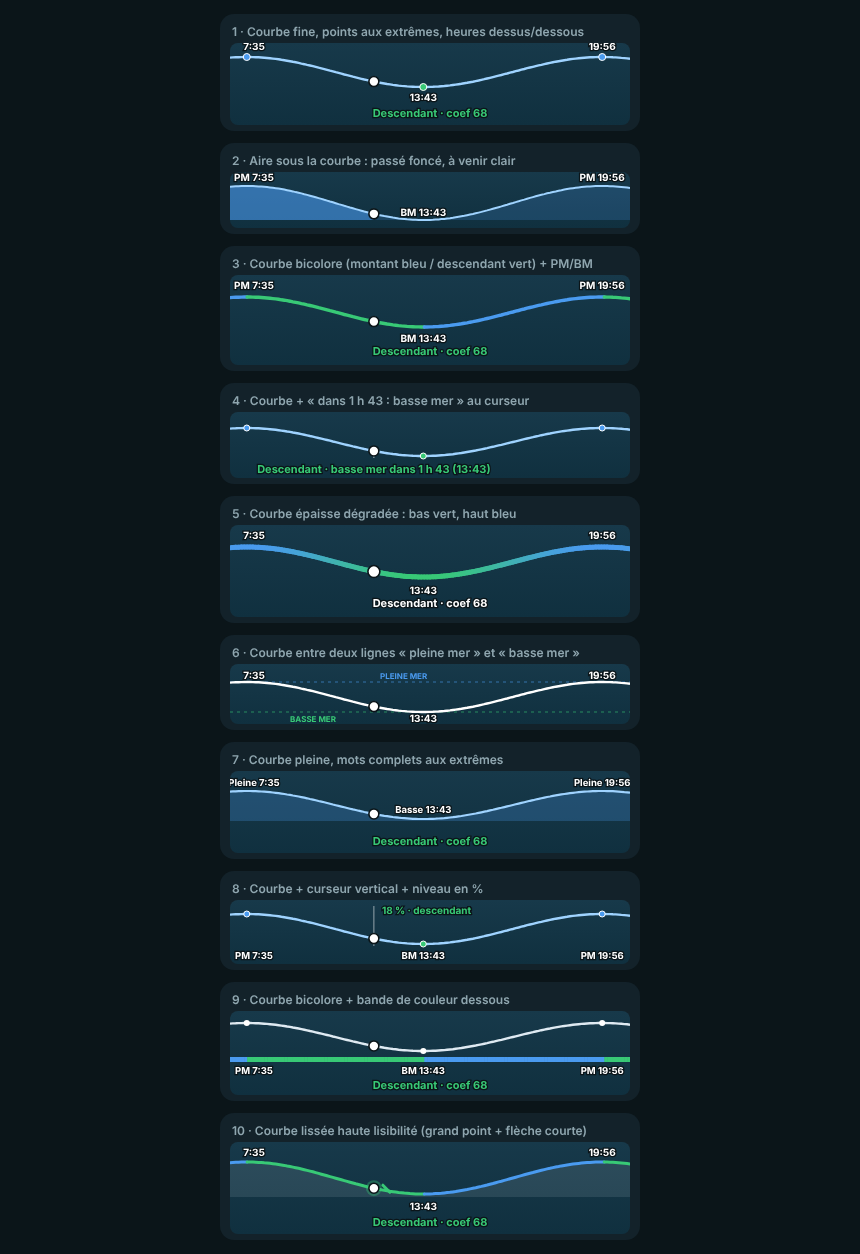
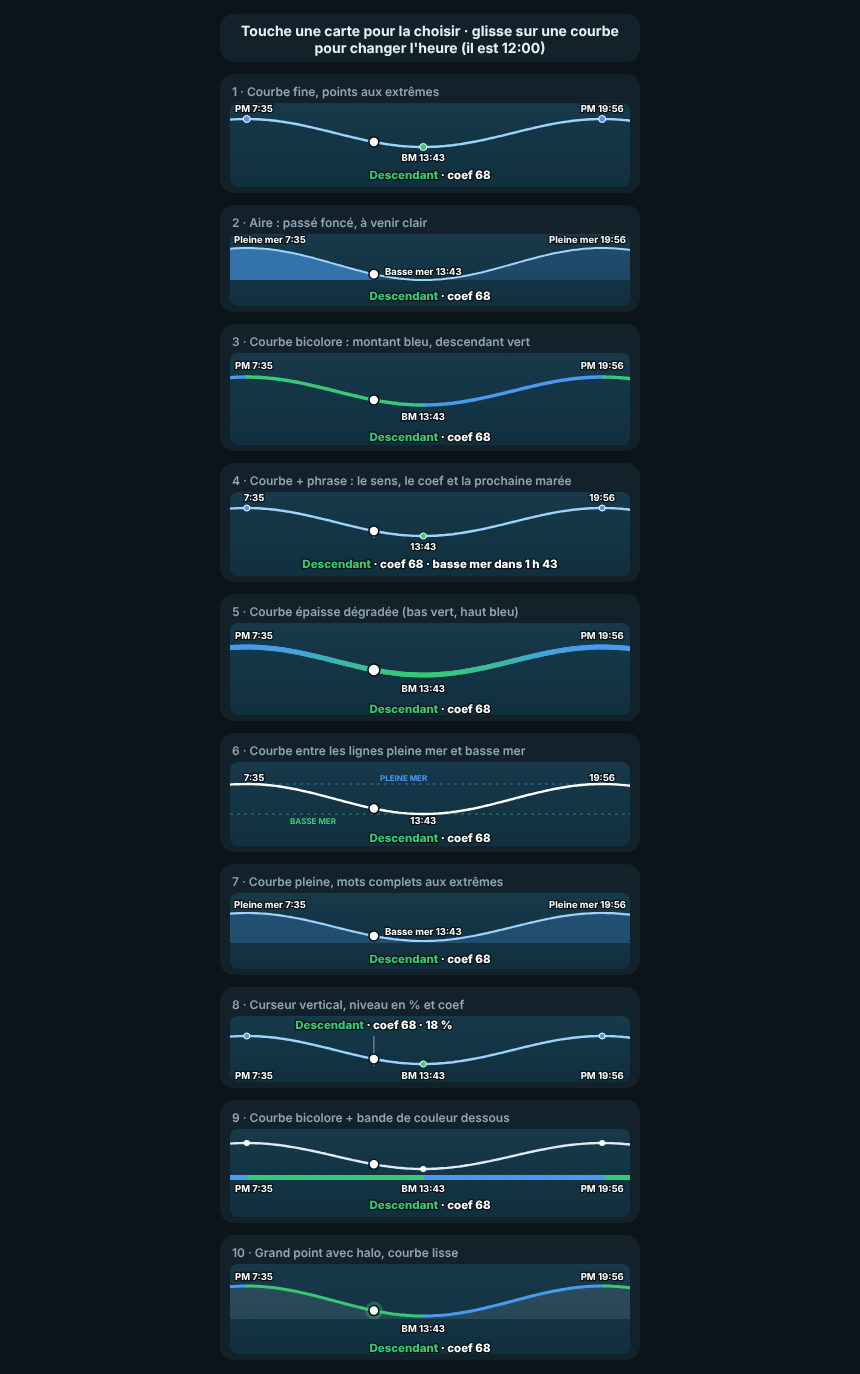
Maquette courbes de marée : coef et sens toujours affichés sur les dix
Claude-Session: https://claude.ai/code/session_01SmdS3QR8SGgih4tjLPucxr

Changed region(s): [[0.2419, 0.0, 0.7558, 0.9952]]

diff --git a/docs/maquettes/propositions-v3/maree-courbes.html b/docs/maquettes/propositions-v3/maree-courbes.html
@@ -26,44 +26,47 @@ const dot=(x,y,r=5)=>`<circle cx="${x}" cy="${y}" r="${r}" fill="#fff" stroke="#
 const segs=(p,w)=>{let s='',i=0;while(i<p.length-1){const up=rising(p[i][2]+.001);let j=i;while(j<p.length-1&&rising(p[j][2]+.001)===up)j++;s+=`<path d="${path(p.slice(i,j+1))}" fill="none" stroke="${up?UP:DN}" stroke-width="${w}" stroke-linecap="round"/>`;i=j}return s};
 const col=up=>up?UP:DN;
 const dir=()=>rising(NOW)?'Montant':'Descendant';
+const ST=(x,y,anchor='middle',extra='')=>{const up=rising(NOW);return `<text x="${x}" y="${y}" font-size="11.5" font-weight="800" text-anchor="${anchor}" stroke="#0b1519" stroke-width="2.5" paint-order="stroke"><tspan fill="${col(up)}">${dir()}</tspan><tspan fill="#fff"> · coef ${COEF}${extra}</tspan></text>`};
+const nextTxt=()=>{const nx=EXT.find(e=>e[0]>NOW),d=nx[0]-NOW,hh=Math.floor(d),mm=Math.round((d-hh)*60);return ` · ${nx[1]==='BM'?'basse':'pleine'} mer dans ${hh} h ${String(mm).padStart(2,'0')}`};
+const TE=(t,k,y)=>{const x=X(t);return x<70?T(4,y,EXL(t,k,1),{a:'start',st:1,s:9.5}):x>W-70?T(W-4,y,EXL(t,k,1),{a:'end',st:1,s:9.5}):T(x,y,EXL(t,k,1),{st:1,s:9.5})};
+const EXL=(t,k,full)=>(full?(k==='PM'?'Pleine mer ':'Basse mer '):(k==='PM'?'PM ':'BM '))+fmt(t);
 const V=[
-['1 · Courbe fine, points aux extrêmes, heures dessus/dessous',()=>{const y0=44,h=30,p=pts(y0,h);let s=`<path d="${path(p)}" fill="none" stroke="#9fd3ff" stroke-width="2.4"/>`;
- for(const [t,k] of visibleExt){const y=y0-h*lv(t);s+=`<circle cx="${X(t)}" cy="${y}" r="3.5" fill="${k==='PM'?UP:DN}" stroke="#fff"/>`+T(X(t),k==='PM'?y-7:y+14,fmt(t),{st:1})}
- return [s+dot(X(NOW),y0-h*lv(NOW),5)+T(200,74,dir()+' · coef '+COEF,{c:col(rising(NOW)),s:11,st:1}),82]}],
-['2 · Aire sous la courbe : passé foncé, à venir clair',()=>{const y0=48,h=34,p=pts(y0,h);const past=p.filter(q=>q[2]<=NOW),fut=p.filter(q=>q[2]>=NOW);
+['1 · Courbe fine, points aux extrêmes',()=>{const y0=44,h=28,p=pts(y0,h);let s=`<path d="${path(p)}" fill="none" stroke="#9fd3ff" stroke-width="2.4"/>`;
+ for(const [t,k] of visibleExt){const y=y0-h*lv(t);s+=`<circle cx="${X(t)}" cy="${y}" r="3.5" fill="${k==='PM'?UP:DN}" stroke="#fff"/>`+T(X(t),k==='PM'?y-7:y+14,EXL(t,k),{st:1,s:9.5})}
+ return [s+dot(X(NOW),y0-h*lv(NOW),5)+ST(200,y0+32),84]}],
+['2 · Aire : passé foncé, à venir clair',()=>{const y0=46,h=32,p=pts(y0,h);const past=p.filter(q=>q[2]<=NOW),fut=p.filter(q=>q[2]>=NOW);
  let s=`<path d="${path(fut)} L${X(A1)} ${y0} L${X(NOW)} ${y0}Z" fill="rgba(74,155,240,.2)"/><path d="${path(past)} L${X(NOW)} ${y0} L${X(A0)} ${y0}Z" fill="rgba(74,155,240,.6)"/><path d="${path(p)}" fill="none" stroke="#9fd3ff" stroke-width="2"/>`;
- for(const [t,k] of visibleExt){s+=T(X(t),k==='PM'?y0-h*lv(t)-5:y0-4,(k==='PM'?'PM ':'BM ')+fmt(t),{st:1})}
- return [s+dot(X(NOW),y0-h*lv(NOW)),56]}],
-['3 · Courbe bicolore (montant bleu / descendant vert) + PM/BM',()=>{const y0=52,h=30,p=pts(y0,h);let s=segs(p,3.4);
- for(const [t,k] of visibleExt){const y=y0-h*lv(t);s+=T(X(t),k==='PM'?y-8:y+15,(k==='PM'?'PM ':'BM ')+fmt(t),{st:1})}
- return [s+dot(X(NOW),y0-h*lv(NOW))+T(200,80,dir()+' · coef '+COEF,{c:col(rising(NOW)),s:11,st:1}),90]}],
-['4 · Courbe + « dans 1 h 43 : basse mer » au curseur',()=>{const y0=44,h=28,p=pts(y0,h);let s=`<path d="${path(p)}" fill="none" stroke="#9fd3ff" stroke-width="2.4"/>`;
- const nx=EXT.find(e=>e[0]>NOW),d=nx[0]-NOW,hh=Math.floor(d),mm=Math.round((d-hh)*60);
+ for(const [t,k] of visibleExt)s+=TE(t,k,k==='PM'?y0-h*lv(t)-5:y0-5);
+ return [s+dot(X(NOW),y0-h*lv(NOW))+ST(200,y0+20),72]}],
+['3 · Courbe bicolore : montant bleu, descendant vert',()=>{const y0=52,h=28,p=pts(y0,h);let s=segs(p,3.4);
+ for(const [t,k] of visibleExt){const y=y0-h*lv(t);s+=T(X(t),k==='PM'?y-8:y+15,EXL(t,k),{st:1,s:9.5})}
+ return [s+dot(X(NOW),y0-h*lv(NOW))+ST(200,y0+36),92]}],
+['4 · Courbe + phrase : le sens, le coef et la prochaine marée',()=>{const y0=44,h=28,p=pts(y0,h);let s=`<path d="${path(p)}" fill="none" stroke="#9fd3ff" stroke-width="2.4"/>`;
  const cx=X(NOW),cy=y0-h*lv(NOW);s+=`<line x1="${cx}" x2="${cx}" y1="${cy}" y2="${y0+4}" stroke="#fff" stroke-dasharray="2 3" opacity=".7"/>`+dot(cx,cy);
- for(const [t,k] of visibleExt)s+=`<circle cx="${X(t)}" cy="${y0-h*lv(t)}" r="3" fill="${k==='PM'?UP:DN}" stroke="#fff"/>`;
- return [s+T(cx,y0+17,`${dir()} · ${nx[1]==='BM'?'basse':'pleine'} mer dans ${hh} h ${String(mm).padStart(2,'0')} (${fmt(nx[0])})`,{c:col(rising(NOW)),s:11,st:1}),66]}],
-['5 · Courbe épaisse dégradée : bas vert, haut bleu',()=>{const y0=52,h=30,p=pts(y0,h);let s='';for(let i=0;i<p.length-1;i++){const m=lv((p[i][2]+p[i+1][2])/2);s+=`<path d="M${p[i][0]} ${p[i][1]} L${p[i+1][0]} ${p[i+1][1]}" stroke="rgb(${56+(74-56)*m|0},${201+(155-201)*m|0},${118+(240-118)*m|0})" stroke-width="5" stroke-linecap="round" fill="none"/>`}
- for(const [t,k] of visibleExt)s+=T(X(t),k==='PM'?y0-h*lv(t)-8:y0-h*lv(t)+17,fmt(t),{st:1});
- return [s+dot(X(NOW),y0-h*lv(NOW),6)+T(200,82,dir()+' · coef '+COEF,{c:'#fff',s:11,st:1}),92]}],
-['6 · Courbe entre deux lignes « pleine mer » et « basse mer »',()=>{const y0=48,h=30,p=pts(y0,h);let s=`<line x1="0" x2="${W}" y1="${y0-h}" y2="${y0-h}" stroke="${UP}" stroke-dasharray="3 4" opacity=".6"/><line x1="0" x2="${W}" y1="${y0}" y2="${y0}" stroke="${DN}" stroke-dasharray="3 4" opacity=".6"/>`+
+ for(const [t,k] of visibleExt)s+=`<circle cx="${X(t)}" cy="${y0-h*lv(t)}" r="3" fill="${k==='PM'?UP:DN}" stroke="#fff"/>`+T(X(t),k==='PM'?y0-h*lv(t)-7:y0-h*lv(t)+14,fmt(t),{st:1,s:9.5});
+ return [s+ST(200,y0+32,'middle',nextTxt()),84]}],
+['5 · Courbe épaisse dégradée (bas vert, haut bleu)',()=>{const y0=52,h=28,p=pts(y0,h);let s='';for(let i=0;i<p.length-1;i++){const m=lv((p[i][2]+p[i+1][2])/2);s+=`<path d="M${p[i][0]} ${p[i][1]} L${p[i+1][0]} ${p[i+1][1]}" stroke="rgb(${56+(74-56)*m|0},${201+(155-201)*m|0},${118+(240-118)*m|0})" stroke-width="5" stroke-linecap="round" fill="none"/>`}
+ for(const [t,k] of visibleExt)s+=T(X(t),k==='PM'?y0-h*lv(t)-8:y0-h*lv(t)+17,EXL(t,k),{st:1,s:9.5});
+ return [s+dot(X(NOW),y0-h*lv(NOW),6)+ST(200,y0+38),92]}],
+['6 · Courbe entre les lignes pleine mer et basse mer',()=>{const y0=52,h=30,p=pts(y0,h);let s=`<line x1="0" x2="${W}" y1="${y0-h}" y2="${y0-h}" stroke="${UP}" stroke-dasharray="3 4" opacity=".6"/><line x1="0" x2="${W}" y1="${y0}" y2="${y0}" stroke="${DN}" stroke-dasharray="3 4" opacity=".6"/>`+
  T(150,y0-h-3,'PLEINE MER',{a:'start',s:8,c:UP})+T(60,y0+10,'BASSE MER',{a:'start',s:8,c:DN})+`<path d="${path(p)}" fill="none" stroke="#fff" stroke-width="2.4"/>`;
- for(const [t,k] of visibleExt)s+=T(X(t),k==='PM'?y0-h-3:y0+10,fmt(t),{st:1,s:10});
- return [s+dot(X(NOW),y0-h*lv(NOW)),60]}],
+ for(const [t,k] of visibleExt)s+=T(X(t),k==='PM'?y0-h-3:y0+10,fmt(t),{st:1,s:9.5});
+ return [s+dot(X(NOW),y0-h*lv(NOW))+ST(200,y0+28),84]}],
 ['7 · Courbe pleine, mots complets aux extrêmes',()=>{const y0=48,h=28,p=pts(y0,h);let s=`<path d="${path(p)} L${W} ${y0+2} L0 ${y0+2}Z" fill="rgba(74,155,240,.25)"/><path d="${path(p)}" fill="none" stroke="#9fd3ff" stroke-width="2.2"/>`;
- for(const [t,k] of visibleExt)s+=T(X(t),k==='PM'?y0-h*lv(t)-5:y0-6,(k==='PM'?'Pleine ':'Basse ')+fmt(t),{st:1,s:9.5});
- return [s+dot(X(NOW),y0-h*lv(NOW))+T(200,74,dir()+' · coef '+COEF,{c:col(rising(NOW)),s:11,st:1}),82]}],
-['8 · Courbe + curseur vertical + niveau en %',()=>{const y0=44,h=30,p=pts(y0,h);const lvl=Math.round(lv(NOW)*100);let s=`<path d="${path(p)}" fill="none" stroke="#9fd3ff" stroke-width="2.4"/>`;
- const cx=X(NOW),cy=y0-h*lv(NOW);s+=`<line x1="${cx}" x2="${cx}" y1="6" y2="${y0+2}" stroke="#fff" opacity=".55"/>`+dot(cx,cy)+T(cx+(cx>300?-8:8),14,`${lvl} % · ${dir().toLowerCase()}`.replace(/^./,c=>c.toUpperCase()),{a:cx>300?'end':'start',s:10,st:1,c:col(rising(NOW))});
- for(const [t,k] of visibleExt)s+=`<circle cx="${X(t)}" cy="${y0-h*lv(t)}" r="3" fill="${k==='PM'?UP:DN}" stroke="#fff"/>`+T(X(t),y0+15,(k==='PM'?'PM ':'BM ')+fmt(t),{st:1,s:9.5});
- return [s,64]}],
-['9 · Courbe bicolore + bande de couleur dessous',()=>{const y0=40,h=28,p=pts(y0,h);let s=`<path d="${path(p)}" fill="none" stroke="#dfeaf2" stroke-width="2.4"/>`;
+ for(const [t,k] of visibleExt)s+=TE(t,k,k==='PM'?y0-h*lv(t)-5:y0-6);
+ return [s+dot(X(NOW),y0-h*lv(NOW))+ST(200,y0+22),76]}],
+['8 · Curseur vertical, niveau en % et coef',()=>{const y0=48,h=28,p=pts(y0,h);const lvl=Math.round(lv(NOW)*100);let s=`<path d="${path(p)}" fill="none" stroke="#9fd3ff" stroke-width="2.4"/>`;
+ const cx=X(NOW),cy=y0-h*lv(NOW);s+=`<line x1="${cx}" x2="${cx}" y1="20" y2="${y0+2}" stroke="#fff" opacity=".55"/>`+dot(cx,cy);
+ for(const [t,k] of visibleExt)s+=`<circle cx="${X(t)}" cy="${y0-h*lv(t)}" r="3" fill="${k==='PM'?UP:DN}" stroke="#fff"/>`+T(X(t),y0+15,EXL(t,k),{st:1,s:9.5});
+ return [s+ST(Math.min(Math.max(cx,110),W-110),13,'middle',` · ${lvl} %`),66]}],
+['9 · Courbe bicolore + bande de couleur dessous',()=>{const y0=40,h=26,p=pts(y0,h);let s=`<path d="${path(p)}" fill="none" stroke="#dfeaf2" stroke-width="2.4"/>`;
  for(let i=0;i<p.length-1;i++){const up=rising(p[i][2]+.001);s+=`<rect x="${p[i][0]}" y="${y0+6}" width="${p[i+1][0]-p[i][0]+.6}" height="5" fill="${col(up)}"/>`}
- for(const [t,k] of visibleExt)s+=`<circle cx="${X(t)}" cy="${y0-h*lv(t)}" r="3" fill="#fff"/>`+T(X(t),y0+23,(k==='PM'?'PM ':'BM ')+fmt(t),{st:1,s:9.5});
- return [s+dot(X(NOW),y0-h*lv(NOW))+T(200,y0+38,dir()+' · coef '+COEF,{c:col(rising(NOW)),s:11,st:1}),84]}],
-['10 · Courbe lissée haute lisibilité (grand point + flèche courte)',()=>{const y0=52,h=32,p=pts(y0,h);let s=`<path d="${path(p)} L${W} ${y0+3} L0 ${y0+3}Z" fill="rgba(143,166,175,.18)"/>`+segs(p,3);
- const cx=X(NOW),cy=y0-h*lv(NOW),up=rising(NOW);s+=`<circle cx="${cx}" cy="${cy}" r="8" fill="${col(up)}" opacity=".35"/>`+dot(cx,cy,5)+`<path d="M${cx+9} ${cy+(up?3:-3)} l7 ${up?-7:7}" stroke="${col(up)}" stroke-width="3" stroke-linecap="round" fill="none"/>`;
- for(const [t,k] of visibleExt)s+=T(X(t),k==='PM'?y0-h*lv(t)-6:y0-h*lv(t)+16,fmt(t)+(k==='PM'?'':''),{st:1,s:10});
- return [s+T(200,84,dir()+' · coef '+COEF,{c:col(up),s:11,st:1}),92]}]
+ for(const [t,k] of visibleExt)s+=`<circle cx="${X(t)}" cy="${y0-h*lv(t)}" r="3" fill="#fff"/>`+T(X(t),y0+23,EXL(t,k),{st:1,s:9.5});
+ return [s+dot(X(NOW),y0-h*lv(NOW))+ST(200,y0+40),88]}],
+['10 · Grand point avec halo, courbe lisse',()=>{const y0=52,h=30,p=pts(y0,h);let s=`<path d="${path(p)} L${W} ${y0+3} L0 ${y0+3}Z" fill="rgba(143,166,175,.18)"/>`+segs(p,3);
+ const cx=X(NOW),cy=y0-h*lv(NOW),up=rising(NOW);s+=`<circle cx="${cx}" cy="${cy}" r="9" fill="${col(up)}" opacity=".35"/>`+dot(cx,cy,5);
+ for(const [t,k] of visibleExt)s+=T(X(t),k==='PM'?y0-h*lv(t)-6:y0-h*lv(t)+16,EXL(t,k),{st:1,s:9.5});
+ return [s+ST(200,y0+36),90]}]
 ];
 function draw(){let html='<div class="card" style="width:min(400px,100%);text-align:center"><b id="pick">Touche une carte pour la choisir · glisse le doigt sur une courbe pour changer l\'heure</b></div>';
 V.forEach(([n,f],i)=>{const [body,H]=f();const on=CHOSEN.has(i);html+=`<div class="card" data-i="${i}" style="${on?'outline:2px solid #f6c453':''}"><h3>${on?'✓ ':''}${n}</h3><div class="band" data-band="1"><svg viewBox="0 0 ${W} ${H}">${body}</svg></div></div>`});
